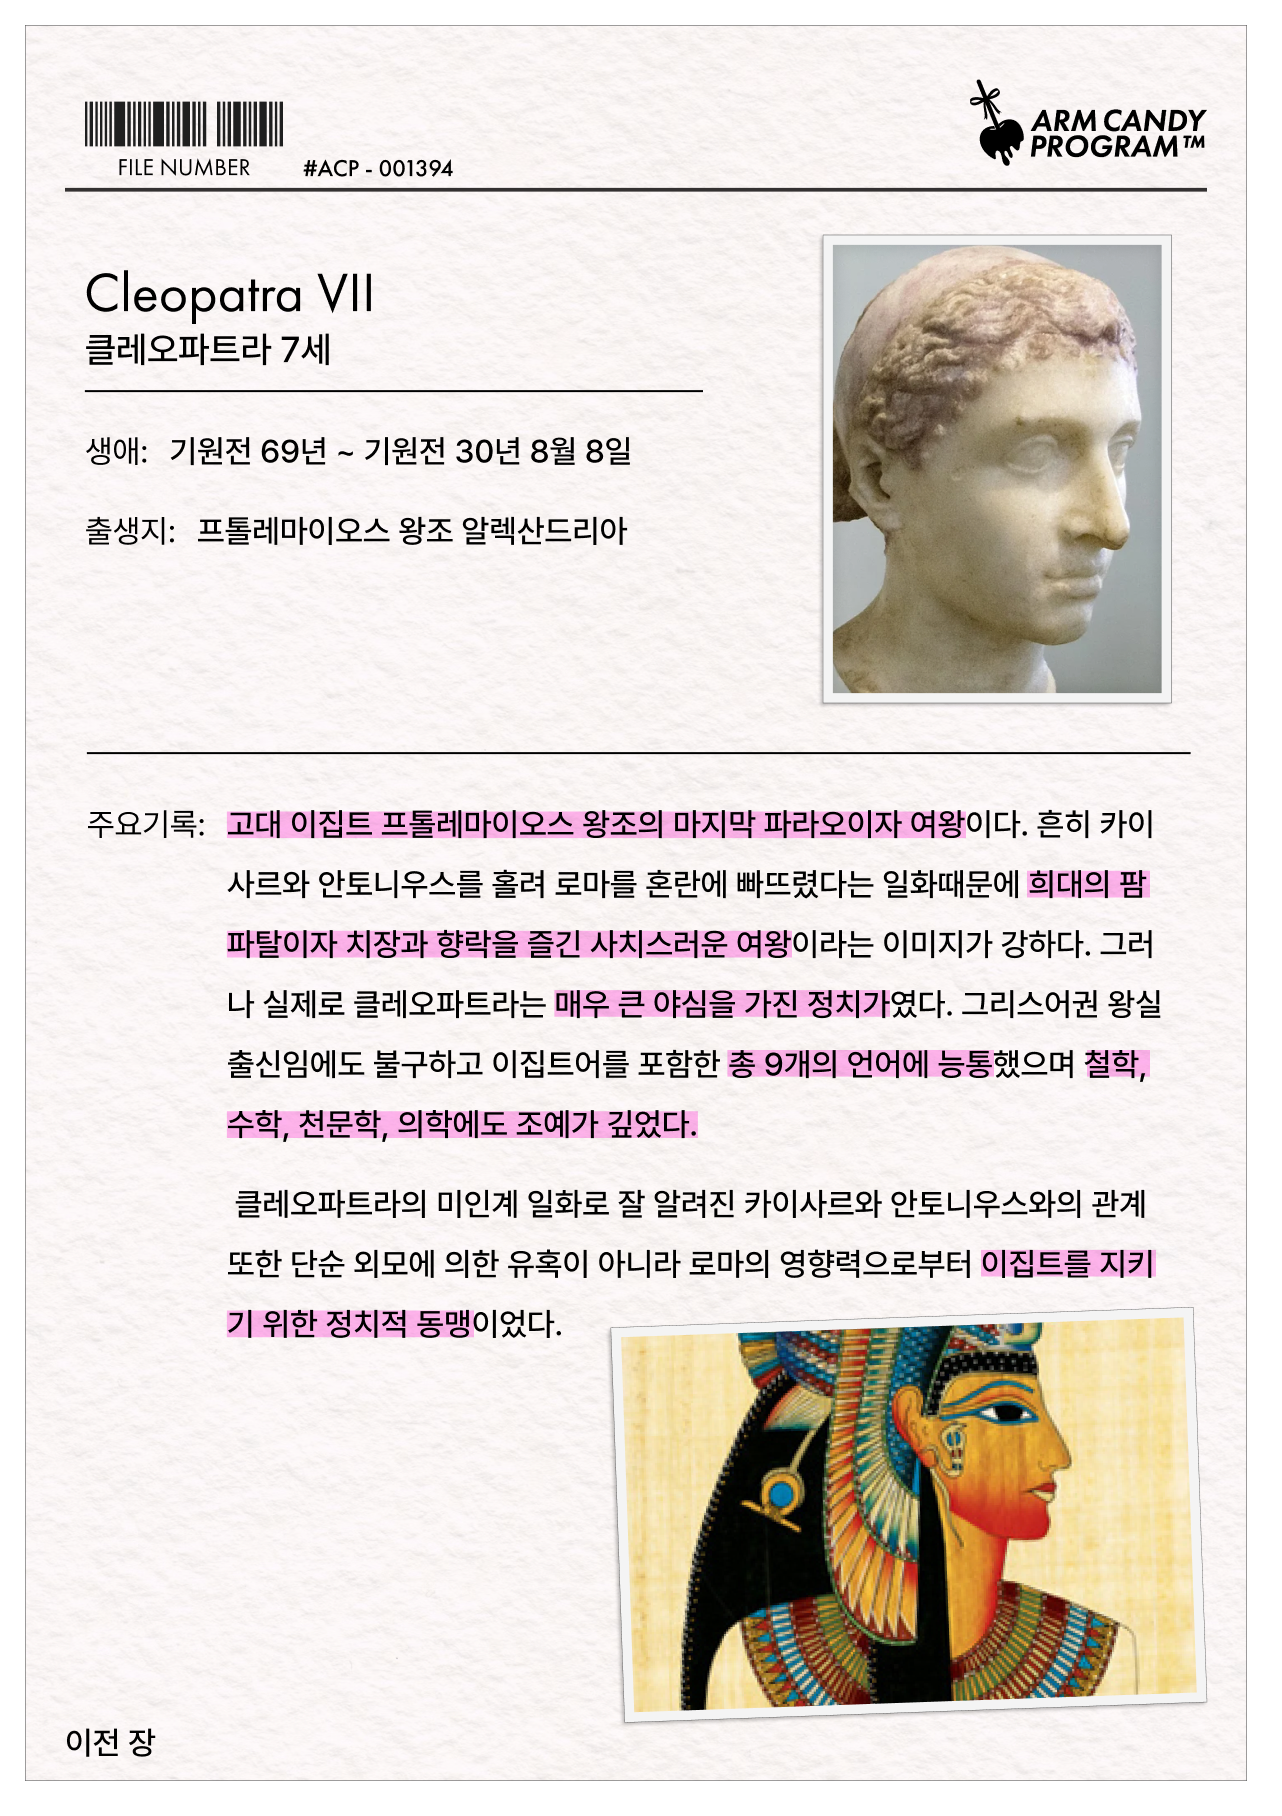
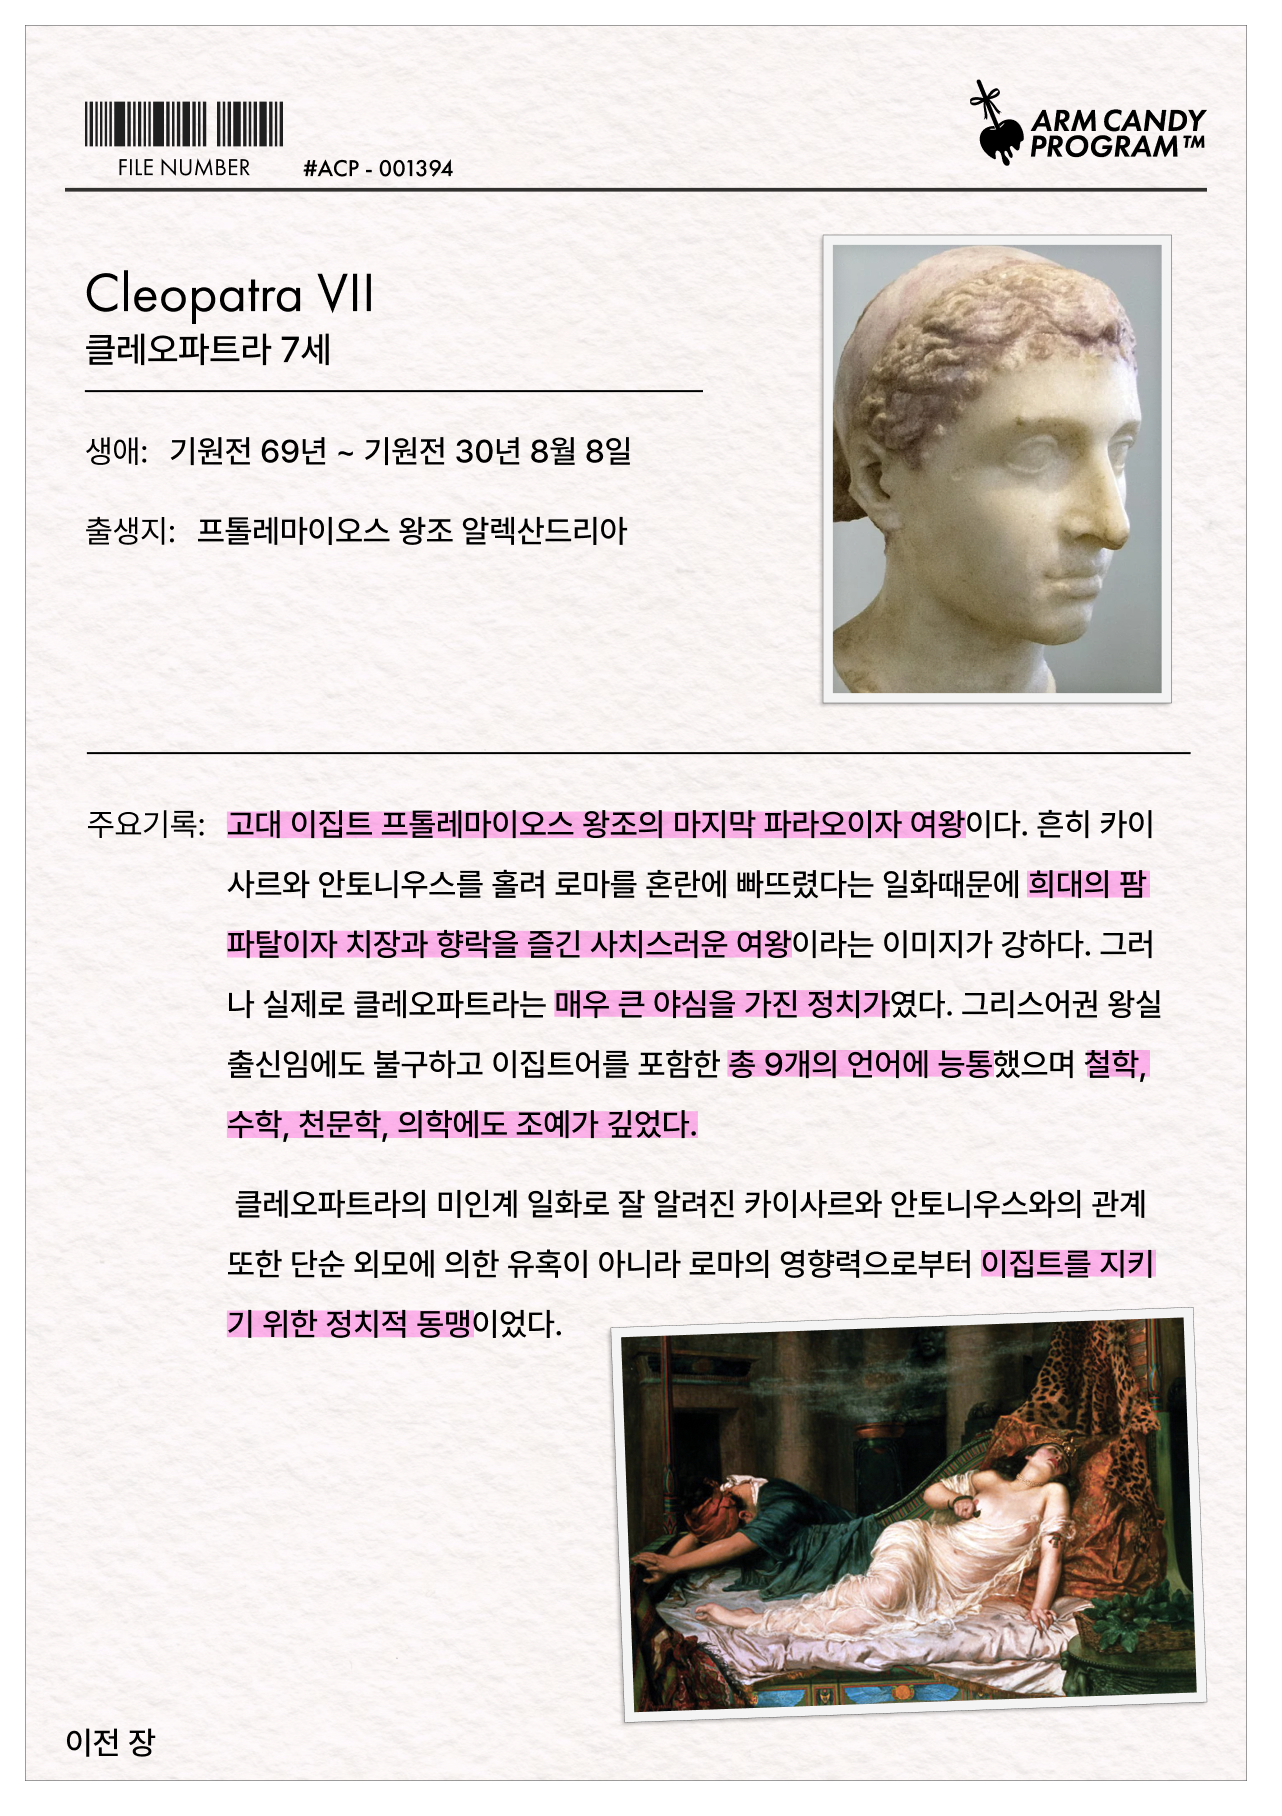
인물 페이지 카드 추가/교체, 미사용 사탕 커서 이미지 삭제
- 왕실·사회: 정난정(1장 오른쪽), 마리 앙투아네트(2장 왼쪽), 엘리자베트(2장 오른쪽) 추가
- 종교·문화: 잔 다르크(2장 왼쪽), 막달레나 마리아(2장 오른쪽, 다음 장 -> 정치·권력 첫 페이지) 추가
- 정치·권력: 클레오파트라 카드를 Figma 최신본으로 교체
- 사용하지 않는 사탕 커서 이미지(cursor.png, cursor@2x.png) 삭제

Changed region(s): [[0.468, 0.7093, 0.936, 0.9559]]

diff --git a/folder-women-people-royal-2.html b/folder-women-people-royal-2.html
@@ -58,18 +58,26 @@
         <span>정치·권력</span>
       </a>
 
-      <!-- 파일 카드: 마더스 리틀 헬퍼 (약물·화학적 통제 2페이지 왼쪽) -->
+      <!-- 파일 카드: 왼쪽 마리 앙투아네트(Figma 2602:691) -->
       <div class="file-card-flat-wrap file-card-flat-wrap--placeholder-left">
-        <!-- 설명 종이(카드) 이미지 삭제. 위치/크기는 이 래퍼의 CSS(.file-card-flat-wrap--*)에 그대로 남겨 둠. 원래 이미지: images/folder-women-drugchem/card-mothershelper@2x.png (alt: 마더스 리틀 헬퍼 자료 카드) -->
+        <img
+          class="file-card-flat"
+          src="images/folder-women-people-royal/card-marie-antoinette@2x.png?v=2"
+          alt="마리 앙투아네트 자료 카드"
+        />
         <a
           class="page-turn page-turn--prev"
           href="folder-women-people-royal.html"
           aria-label="이전 장"
         ></a>
       </div>
-      <!-- 파일 카드: 데포-프로베라 (약물·화학적 통제 2페이지 오른쪽, 다음 장 → 처벌·강제 첫 페이지) -->
+      <!-- 파일 카드: 오른쪽 엘리자베트(Figma 2610:229). 카드에 '다음 장' 글자가 있지만 이 뒤에 이어지는 페이지가 아직 없어서 링크는 없음 -->
       <div class="file-card-flat-wrap file-card-flat-wrap--placeholder-right">
-        <!-- 설명 종이(카드) 이미지 삭제. 위치/크기는 이 래퍼의 CSS(.file-card-flat-wrap--*)에 그대로 남겨 둠. 원래 이미지: images/folder-women-drugchem/card-provera@2x.png (alt: 데포-프로베라 자료 카드) -->
+        <img
+          class="file-card-flat"
+          src="images/folder-women-people-royal/card-elisabeth@2x.png"
+          alt="엘리자베트 자료 카드"
+        />
       </div>
 
     </div>

diff --git a/folder-women-people-religion-2.html b/folder-women-people-religion-2.html
@@ -71,9 +71,13 @@
           <span>종교·문화</span>
         </a>
 
-        <!-- 파일 카드: 여성 할례 / 유방 다람질 (신체 변형 2페이지, 1페이지와 같은 설정) -->
+        <!-- 파일 카드: 왼쪽 잔 다르크(Figma 2602:1007) / 오른쪽 막달레나 마리아(Figma 2609:157) -->
         <div class="file-card-flat-wrap file-card-flat-wrap--fgm">
-          <!-- 설명 종이(카드) 이미지 삭제. 위치/크기는 이 래퍼의 CSS(.file-card-flat-wrap--*)에 그대로 남겨 둠. 원래 이미지: images/folder-women-bodymod/card-fgm@2x.png (alt: 여성 할례 자료 카드) -->
+          <img
+            class="file-card-flat"
+            src="images/folder-women-people-religion/card-jeanne-darc@2x.png"
+            alt="잔 다르크 자료 카드"
+          />
           <a
             class="page-turn page-turn--prev"
             href="folder-women-people-religion.html"
@@ -81,7 +85,12 @@
           ></a>
         </div>
         <div class="file-card-flat-wrap file-card-flat-wrap--breastironing">
-          <!-- 설명 종이(카드) 이미지 삭제. 위치/크기는 이 래퍼의 CSS(.file-card-flat-wrap--*)에 그대로 남겨 둠. 원래 이미지: images/folder-women-bodymod/card-breastironing@2x.png (alt: 유방 다람질 자료 카드) -->
+          <img
+            class="file-card-flat"
+            src="images/folder-women-people-religion/card-mary-magdalene@2x.png"
+            alt="막달레나 마리아 자료 카드"
+          />
+          <!-- 카드에 찍힌 '다음 장' 글자 위의 클릭 영역: 정치·권력 첫 페이지로 -->
           <a
             class="page-turn page-turn--next"
             href="folder-women-people-politics.html"

diff --git a/folder-women-people-royal.html b/folder-women-people-royal.html
@@ -58,7 +58,7 @@
         <span>정치·권력</span>
       </a>
 
-      <!-- 파일 카드: 왼쪽 장희빈(Figma 2585:275) / 오른쪽은 아직 비어 있음 (위치만 유지) -->
+      <!-- 파일 카드: 왼쪽 장희빈(Figma 2585:275) / 오른쪽 정난정(Figma 2602:623) -->
       <div class="file-card-flat-wrap file-card-flat-wrap--placeholder-left">
         <img
           class="file-card-flat"
@@ -72,7 +72,11 @@
         ></a>
       </div>
       <div class="file-card-flat-wrap file-card-flat-wrap--placeholder-right">
-        <!-- 설명 종이(카드) 이미지 삭제. 위치/크기는 이 래퍼의 CSS(.file-card-flat-wrap--*)에 그대로 남겨 둠. 원래 이미지: images/folder-women-drugchem/card-belladonna@2x.png (alt: 벨라도나 안약 자료 카드) -->
+        <img
+          class="file-card-flat"
+          src="images/folder-women-people-royal/card-jeongnanjeong@2x.png"
+          alt="정난정 자료 카드"
+        />
         <a
           class="page-turn page-turn--next"
           href="folder-women-people-royal-2.html"

diff --git a/folder-women-people-politics.html b/folder-women-people-politics.html
@@ -62,7 +62,7 @@
       <div class="file-card-flat-wrap file-card-flat-wrap--virginity">
         <img
           class="file-card-flat"
-          src="images/folder-women-people-politics/card-cleopatra@2x.png?v=2"
+          src="images/folder-women-people-politics/card-cleopatra@2x.png?v=3"
           alt="클레오파트라 7세 자료 카드"
         />
         <!-- 카드에 찍힌 '이전 장' 글자 위의 클릭 영역: 앞 챕터(종교·문화)의 마지막 장으로 -->
